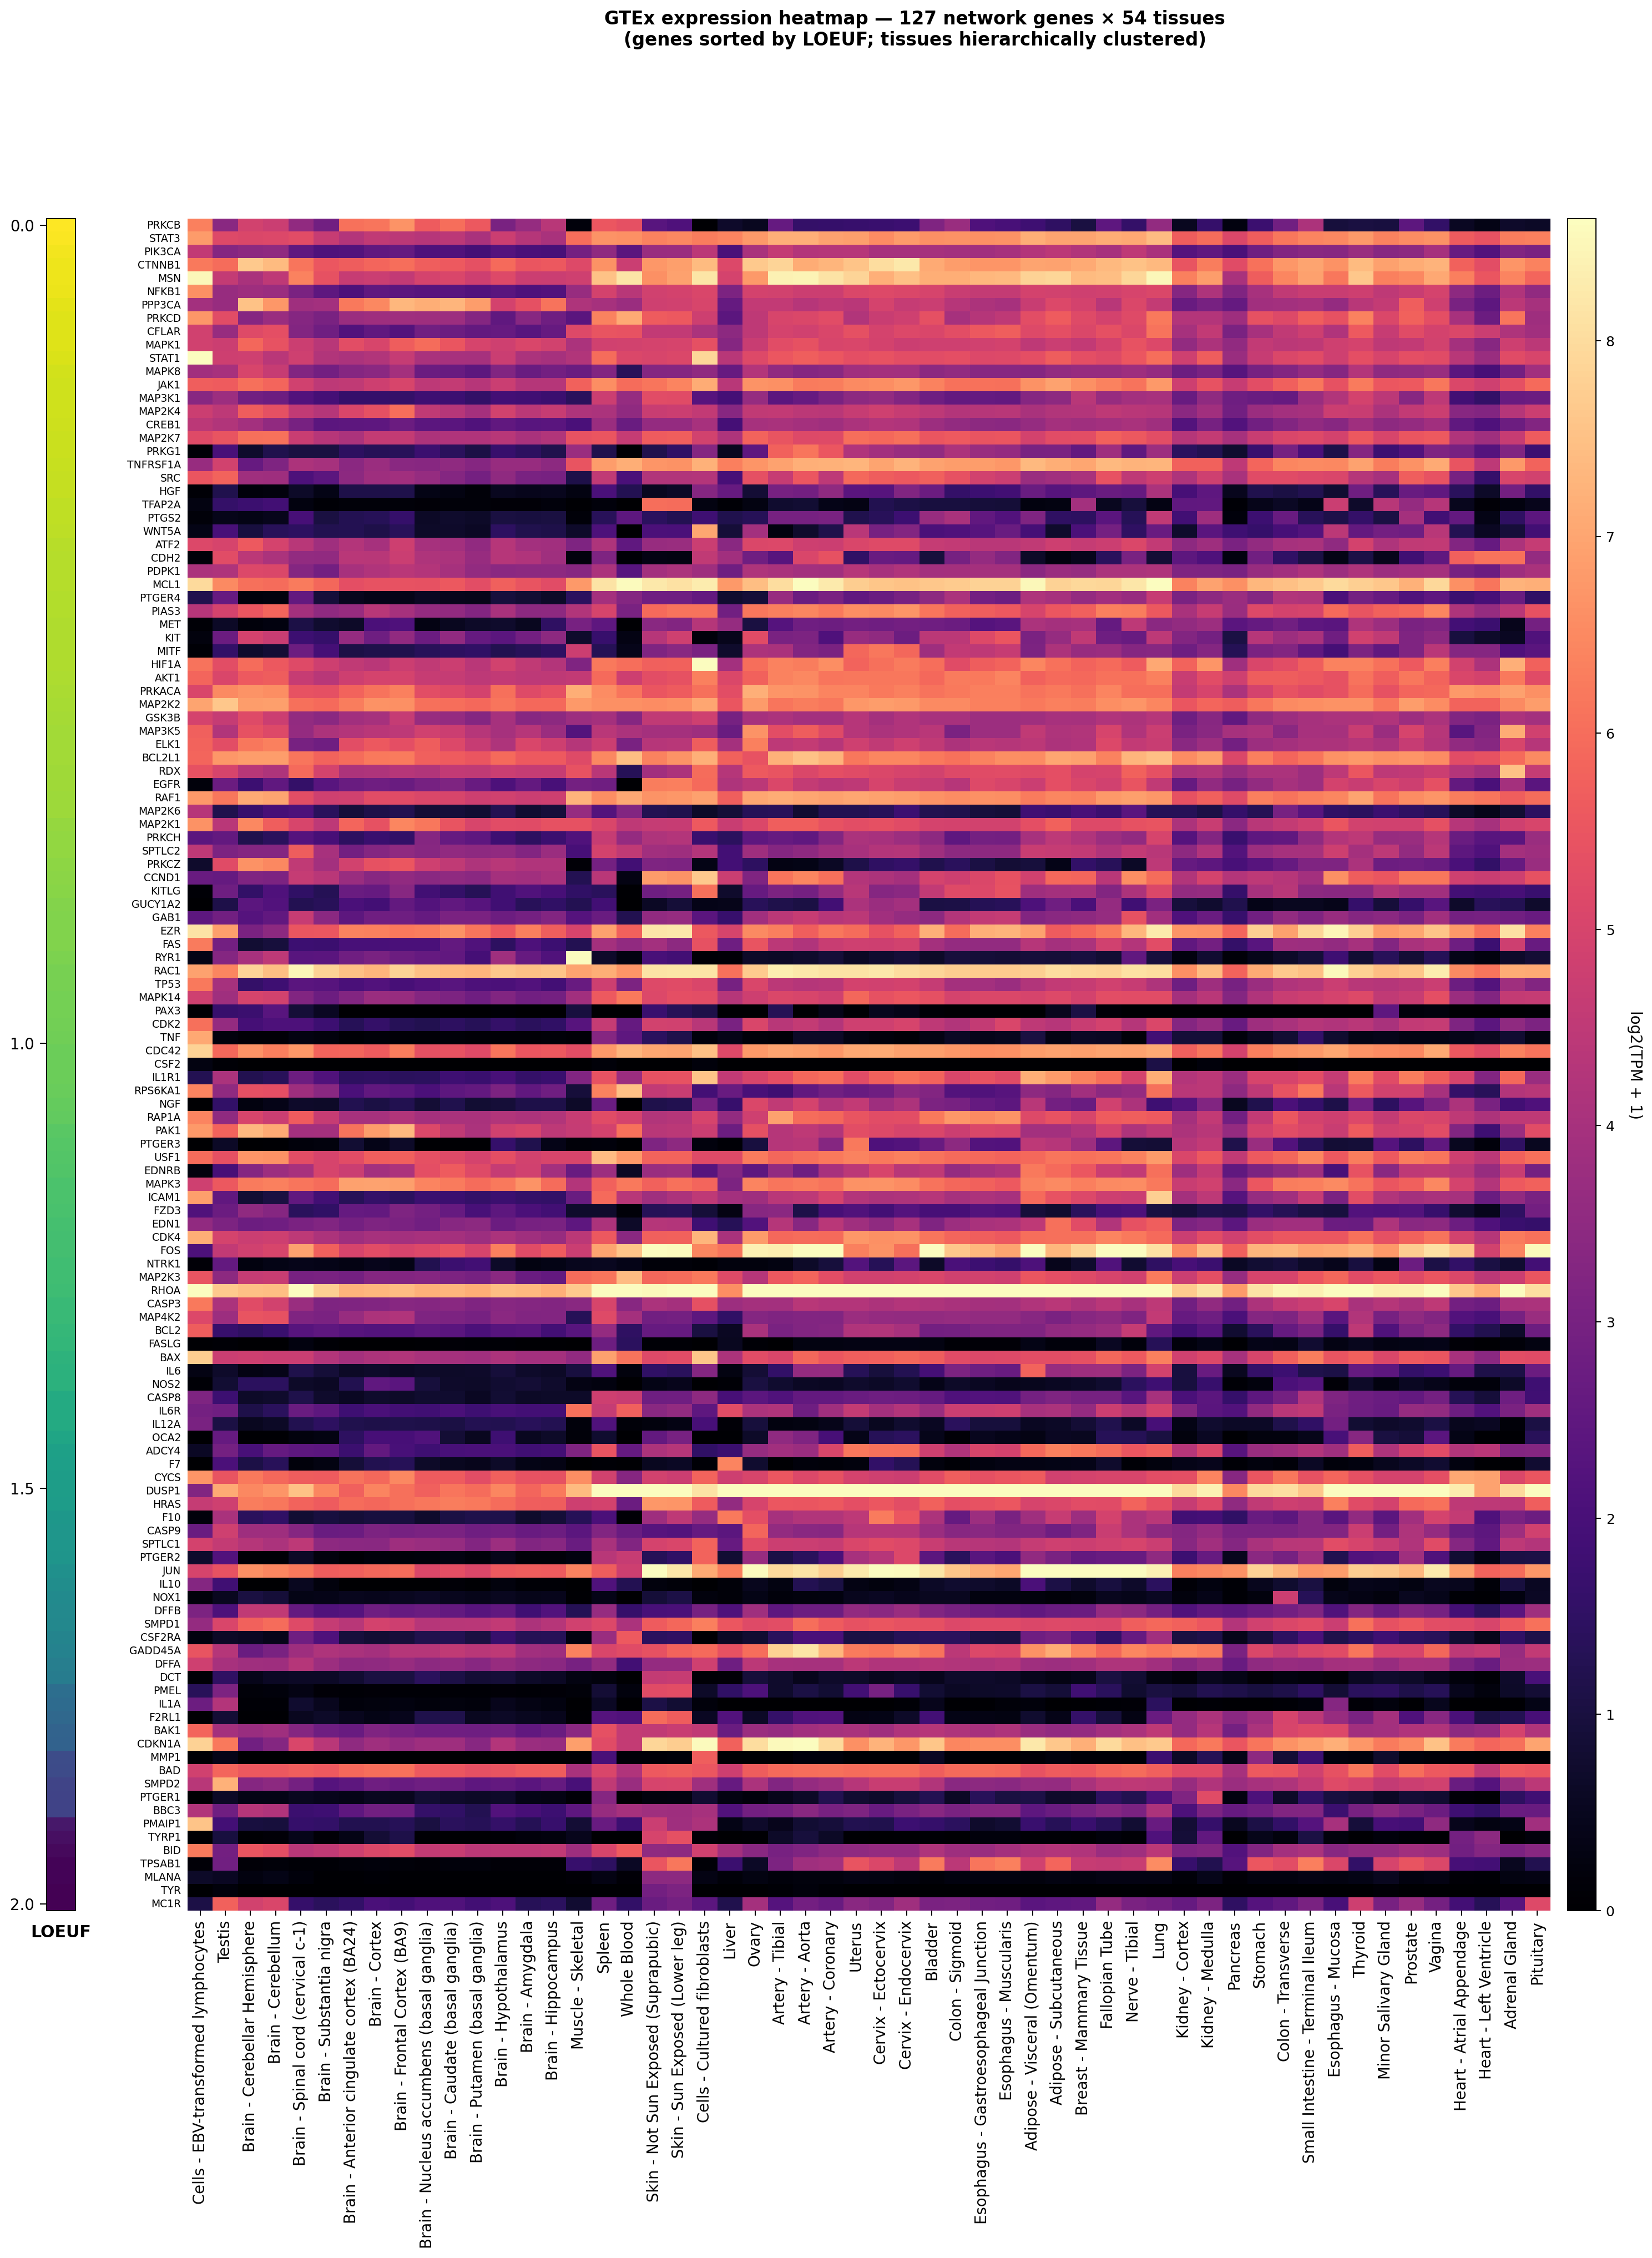
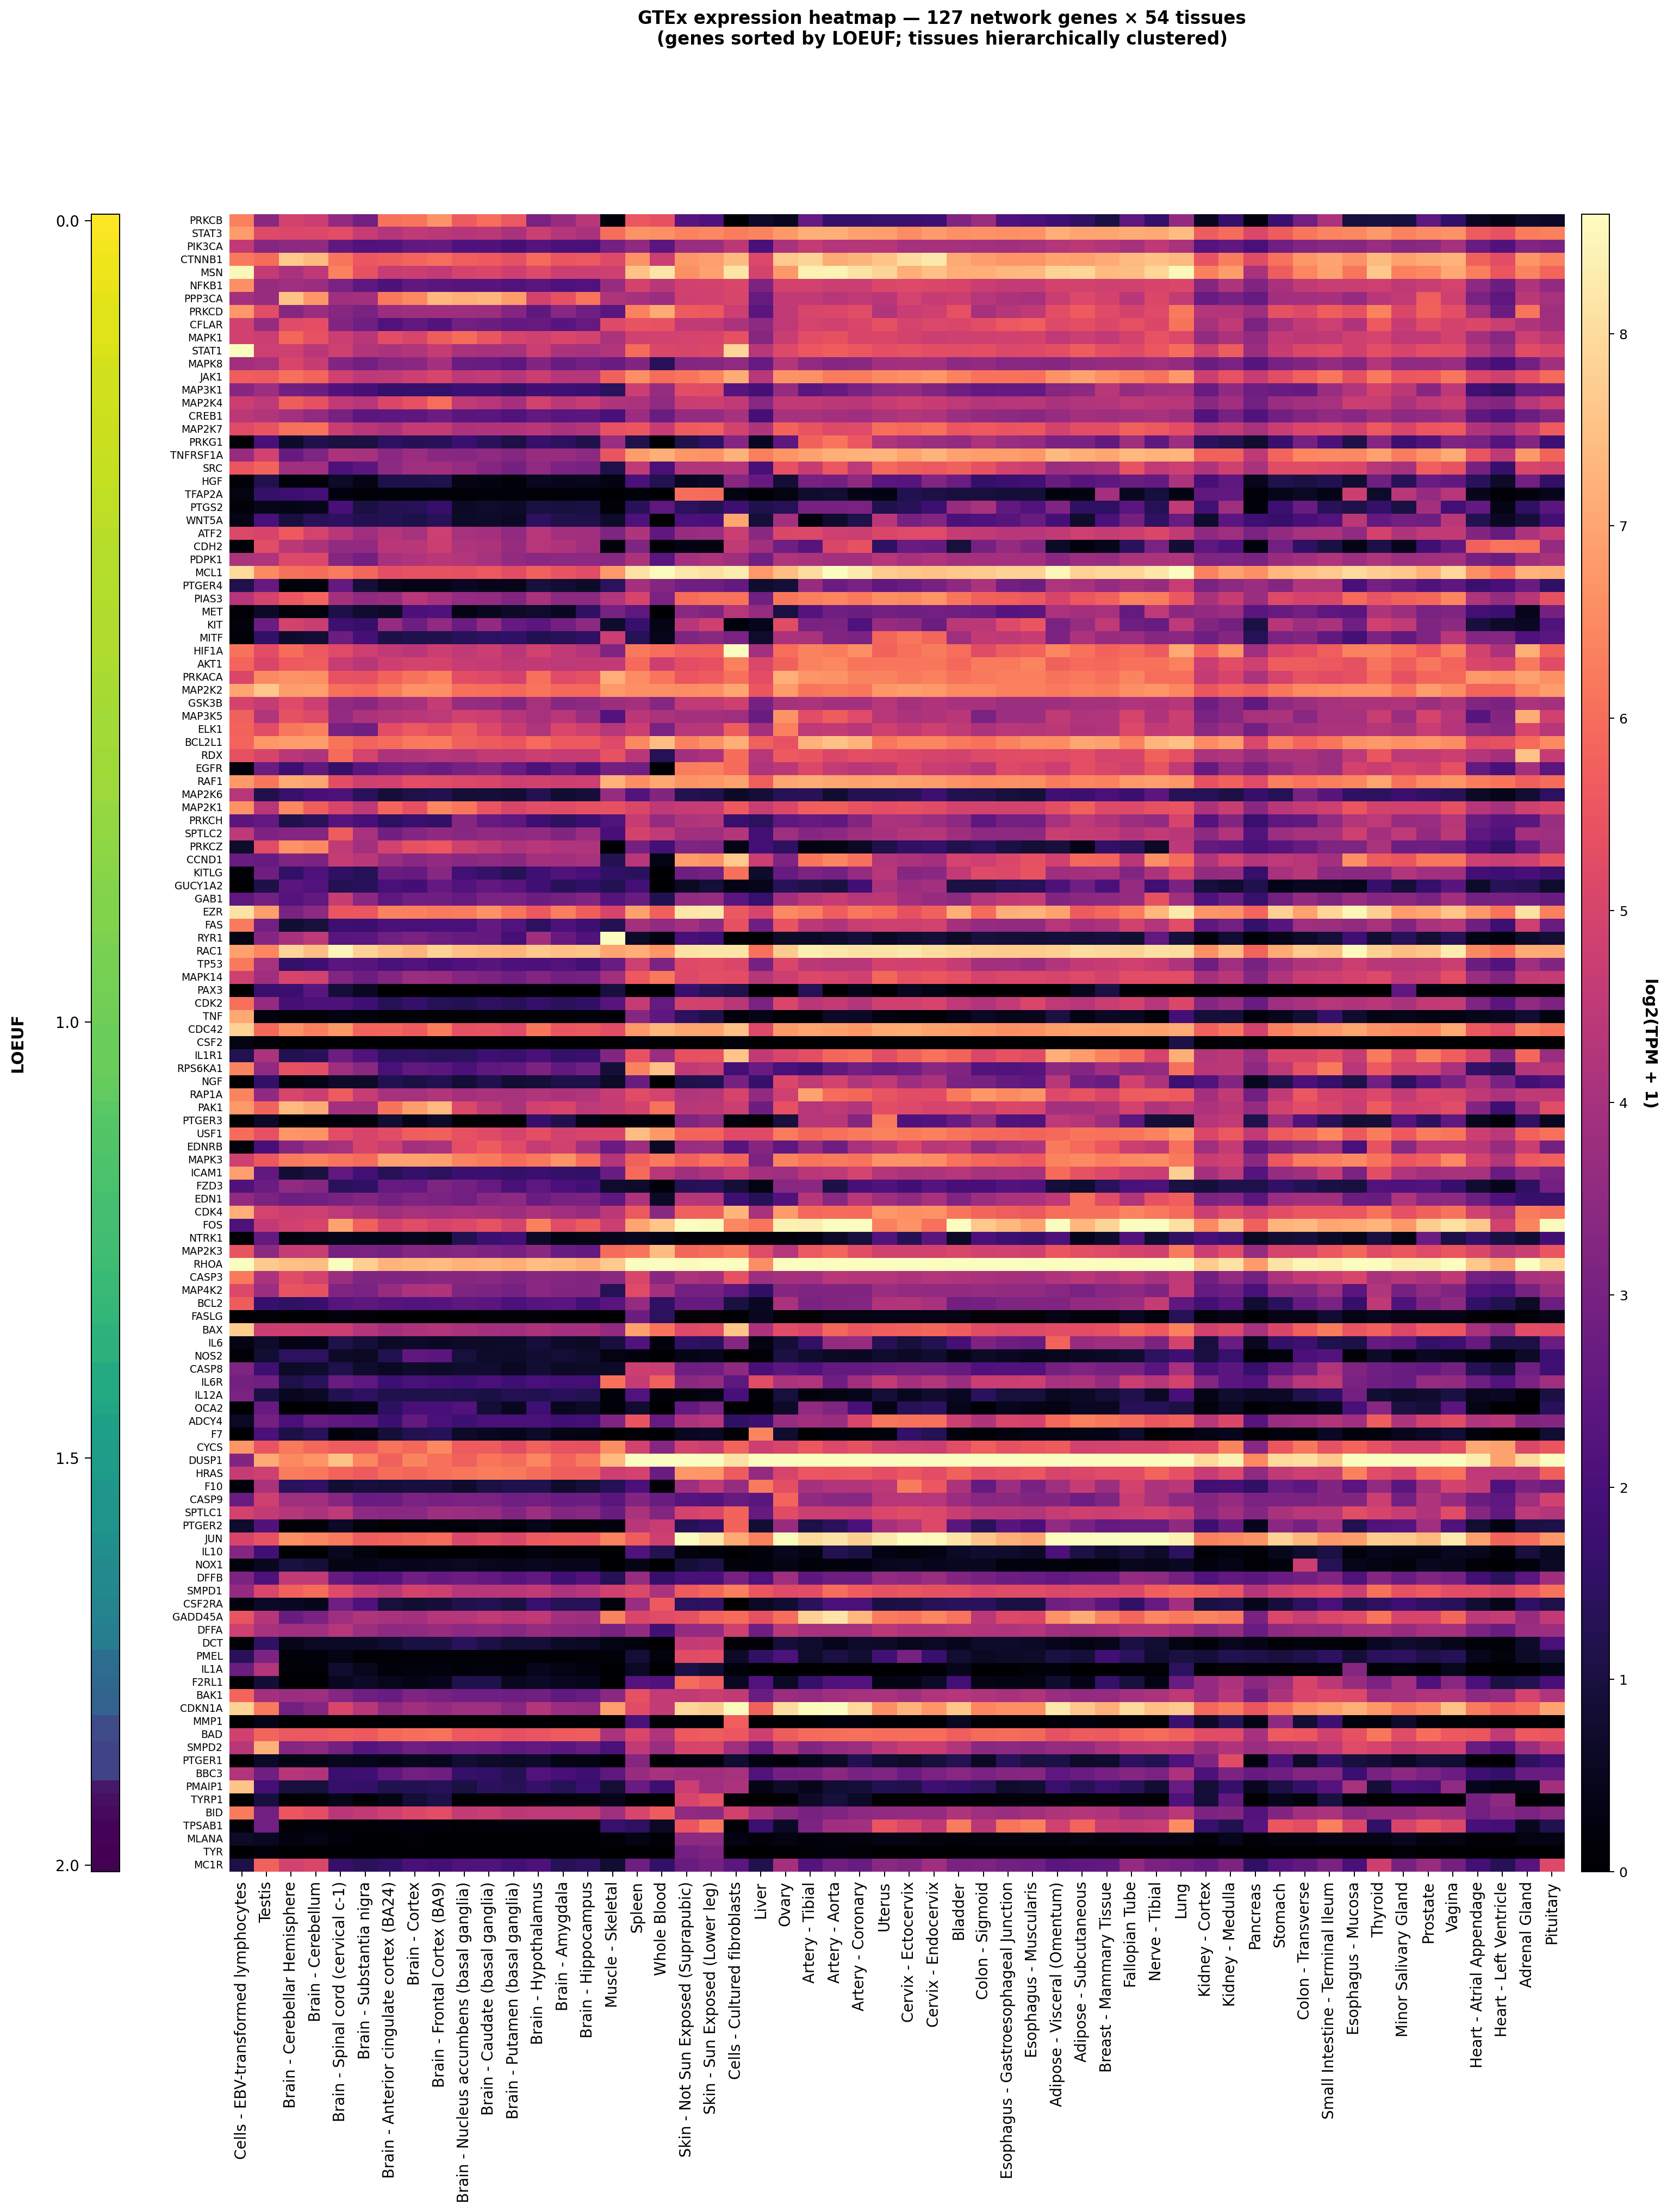
Mirror LOEUF and log2(TPM+1) label styling
- "LOEUF" label moved from bottom xlabel to left-side ylabel (rotation=90)
- Bolded the log2(TPM+1) colorbar label to match the LOEUF weight
- Bumped both to fontsize=12, labelpad=22 for symmetric appearance

diff --git a/analysis/phase1_gtex_extras.py b/analysis/phase1_gtex_extras.py
@@ -268,7 +268,8 @@ def draw_heatmap(tissue_subset, fname, n_tissues_label):
     ax_loeuf.set_yticklabels([f'{v:.1f}' for v in scale_vals], fontsize=11)
     ax_loeuf.yaxis.tick_left()
     ax_loeuf.tick_params(axis='y', length=5, pad=4, direction='out')
-    ax_loeuf.set_xlabel('LOEUF', fontsize=12, fontweight='bold', labelpad=10)
+    ax_loeuf.set_ylabel('LOEUF', fontsize=12, fontweight='bold',
+                        rotation=90, labelpad=22)
     for sp in ax_loeuf.spines.values():
         sp.set_visible(True)
         sp.set_color('black')
@@ -298,7 +299,8 @@ def draw_heatmap(tissue_subset, fname, n_tissues_label):
               + names_width + gap_names_heat + heatmap_width + gap_heat_cbar)
     cbar_ax = fig.add_axes([cbar_x, bottom, strip_width, height])
     cb = fig.colorbar(im, cax=cbar_ax, orientation='vertical')
-    cb.set_label('log2(TPM + 1)', fontsize=11, rotation=270, labelpad=20)
+    cb.set_label('log2(TPM + 1)', fontsize=12, fontweight='bold',
+                 rotation=270, labelpad=22)
 
     fig.suptitle(
         f'GTEx expression heatmap — {n} network genes × {n_tissues_label}\n'